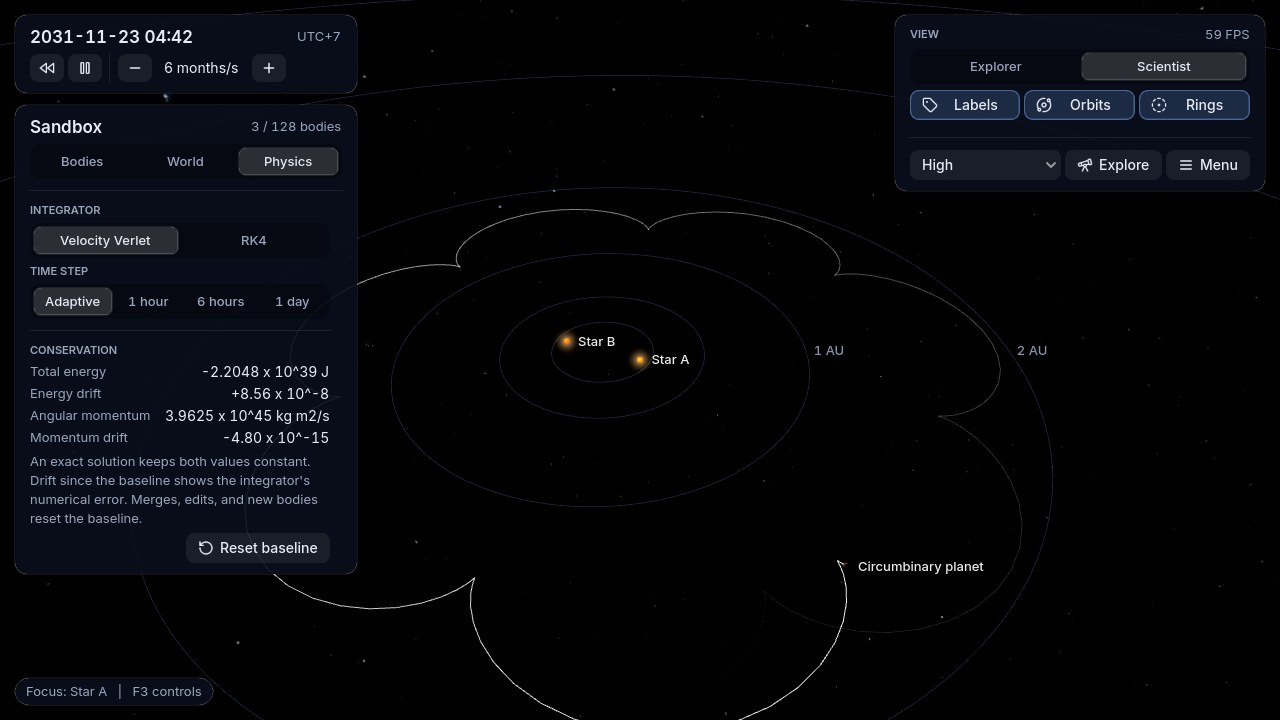
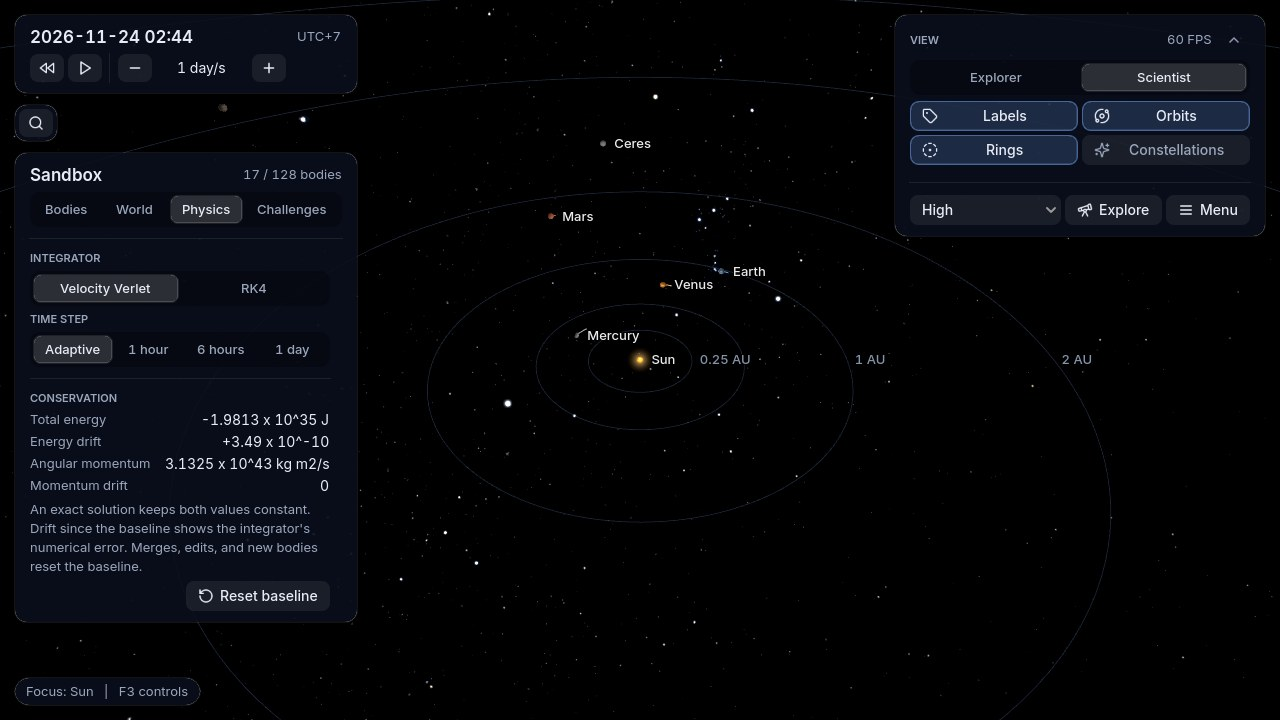
docs: refresh the tour and Sandbox screenshots and add the newer features

diff --git a/README.md b/README.md
@@ -92,13 +92,19 @@ It is aimed at learners from elementary school to university. Every panel switch
 | ![Main menu](.github/media/main_menu.jpg) | ![Sandbox](.github/media/sandbox.jpg) |
 | Main menu | Sandbox physics panel with conservation readouts |
 | ![Guided tours](.github/media/tours.jpg) | ![Quiz](.github/media/quiz.jpg) |
-| Guided tours with voice-over and captions | Quiz feedback with explanations |
+| The Eclipses and Comets tour at the lunar eclipse of March 2026 | Quiz feedback with explanations |
 | ![Earth](.github/media/earth.jpg) | ![Inner solar system](.github/media/inner_system.jpg) |
 | Earth with city lights, clouds, and atmosphere | Inner solar system with the instanced asteroid belt |
 | ![Saturn](.github/media/saturn.jpg) | ![Pluto](.github/media/pluto.jpg) |
 | Saturn's rings and the orbit of Titan | Pluto from New Horizons mosaics |
 | ![Io's shadow on Jupiter](.github/media/io_shadow.jpg) | ![Lunar eclipse](.github/media/lunar_eclipse.jpg) |
 | Io's shadow crossing Jupiter | The lunar eclipse of 3 March 2026 at true scale |
+| ![Night sky](.github/media/night_sky.jpg) | ![Halley's Comet](.github/media/comet.jpg) |
+| Orion and its neighbors with constellation figures and names | Halley's Comet in March 1986 with its ion and dust tails |
+| ![Gravity well](.github/media/gravity_well.jpg) | ![Challenges](.github/media/challenges.jpg) |
+| The gravity well under a binary star | A Sandbox challenge in progress |
+| ![Solar eclipse](.github/media/solar_eclipse.jpg) | ![Figure-eight](.github/media/figure_eight.jpg) |
+| The Moon's shadow on the North Atlantic, 12 August 2026 | Three stars on the figure-eight orbit |
 
 ## Getting started
 
